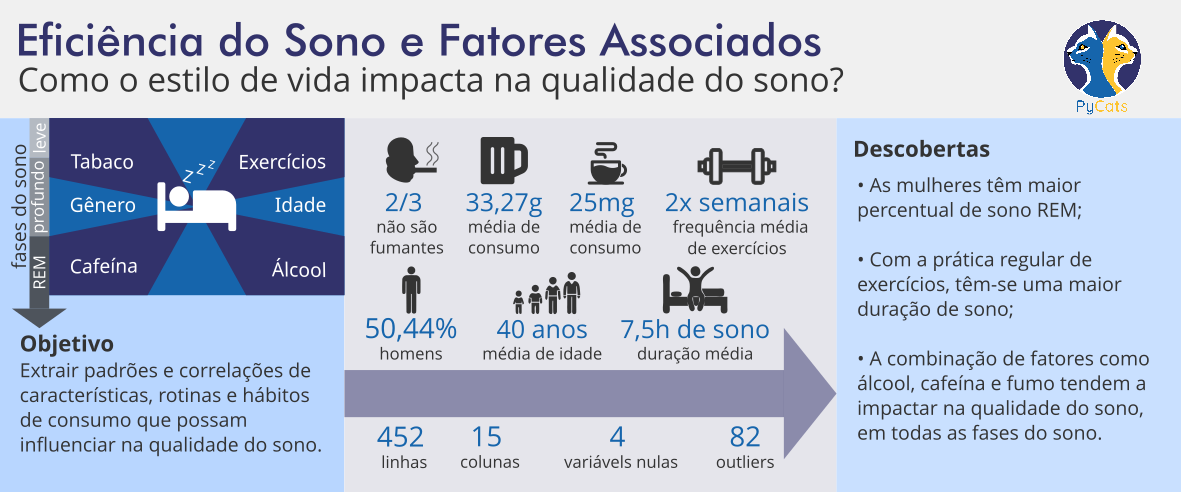
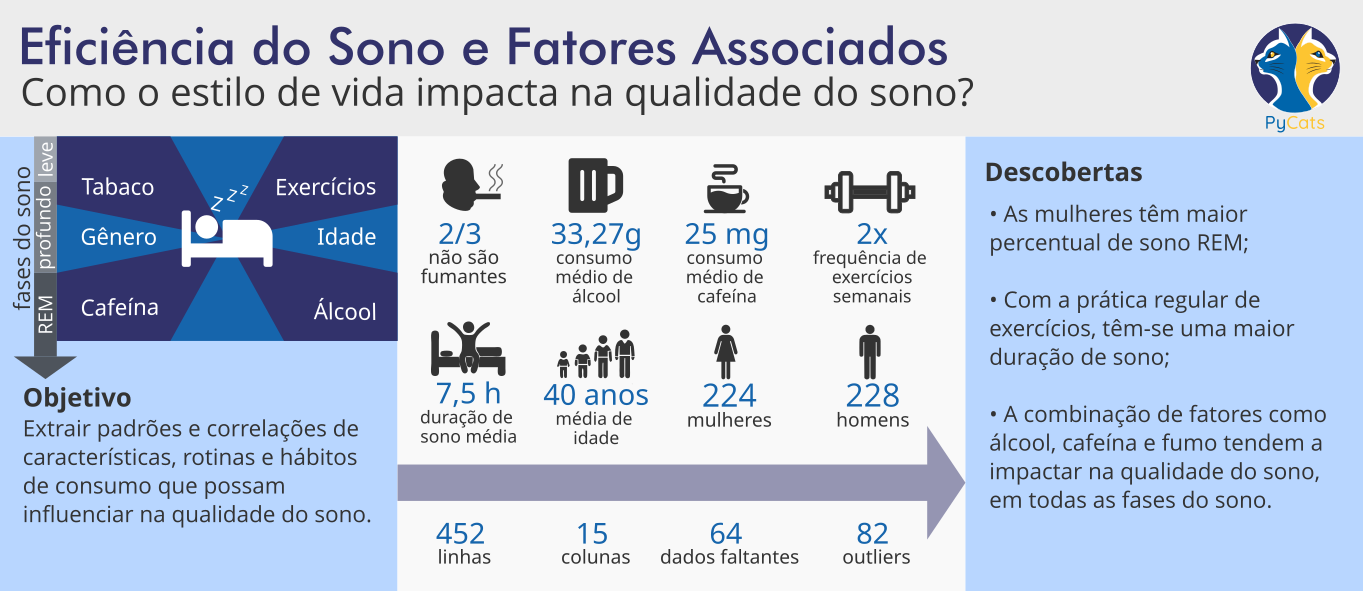
refactor: ajusta estilo resumo gráfico e adiciona badge seaborn

diff --git a/README.md b/README.md
@@ -3,12 +3,13 @@
 </div>
 
 # Análise da Eficiência do Sono
-![Python](https://img.shields.io/badge/python-3670A0?style=for-the-badge&logo=python&logoColor=ffdd54)![Matplotlib](https://img.shields.io/badge/Matplotlib-%23ffffff.svg?style=for-the-badge&logo=Matplotlib&logoColor=black)![Pandas](https://img.shields.io/badge/pandas-%23150458.svg?style=for-the-badge&logo=pandas&logoColor=white)![NumPy](https://img.shields.io/badge/numpy-%23013243.svg?style=for-the-badge&logo=numpy&logoColor=white)
+![Python](https://img.shields.io/badge/python-3670A0?style=for-the-badge&logo=python&logoColor=ffdd54)![Pandas](https://img.shields.io/badge/pandas-%23150458.svg?style=for-the-badge&logo=pandas&logoColor=white)![NumPy](https://img.shields.io/badge/numpy-%23013243.svg?style=for-the-badge&logo=numpy&logoColor=white)![Seaborn Badge](https://img.shields.io/badge/seaborn-%2300A2C1.svg?style=for-the-badge&logo=seaborn&color=444876&logoColor=white)![Matplotlib](https://img.shields.io/badge/Matplotlib-%23ffffff.svg?style=for-the-badge&logo=Matplotlib&logoColor=black)
+
 
 ![GitHub](https://img.shields.io/github/license/atlantico-academy/equipe1-2024.2.svg) [![PyPI](https://img.shields.io/pypi/v/atlantico-academy-equipe2-2024.1.svg)](http://pypi.org/project/atlantico-academy-equipe2-2024.1/) [![GitHub last commit](https://img.shields.io/github/last-commit/atlantico-academy/equipe1-2024.2.svg)](https://github.com/atlantico-academy/equipe1-2024.2/commit/developer)
 
 ## Base de Dados
-<p align="justify">No estudo, foi utilizado o conjunto de dados <a href="https://www.kaggle.com/datasets/equilibriumm/sleep-efficiency">Sleep Efficience</a>, disponível no Kaggle. A base de dados contém informações sobre idade, gênero, horários de dormir e acordar, duração do sono, porcentagem de sono leve, profundo e REM, número de despertares, consumo de cafeína e álcool, status de tabagismo e frequência de exercícios.</p>
+<p align="justify">No estudo, foi utilizado o conjunto de dados <a href="https://www.kaggle.com/datasets/equilibriumm/sleep-efficiency">Sleep Efficience</a>, disponível no site do Kaggle. A base de dados contém informações sobre idade, gênero, horários de dormir e acordar, duração do sono, porcentagem de sono leve, profundo e REM, número de despertares, consumo de cafeína e álcool, status de tabagismo e frequência de exercícios.</p>
 
 ## Objetivo do Projeto
 
